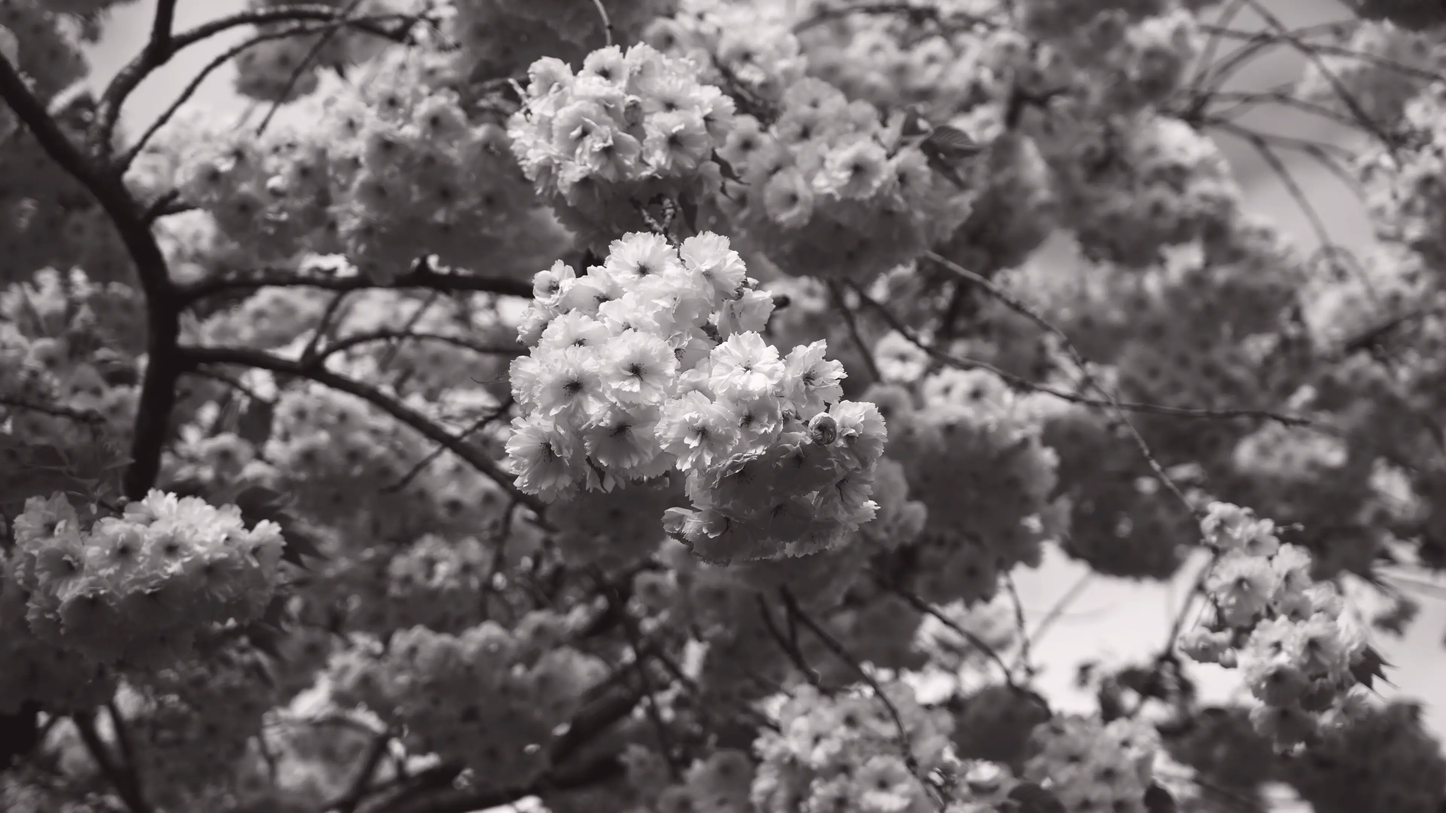
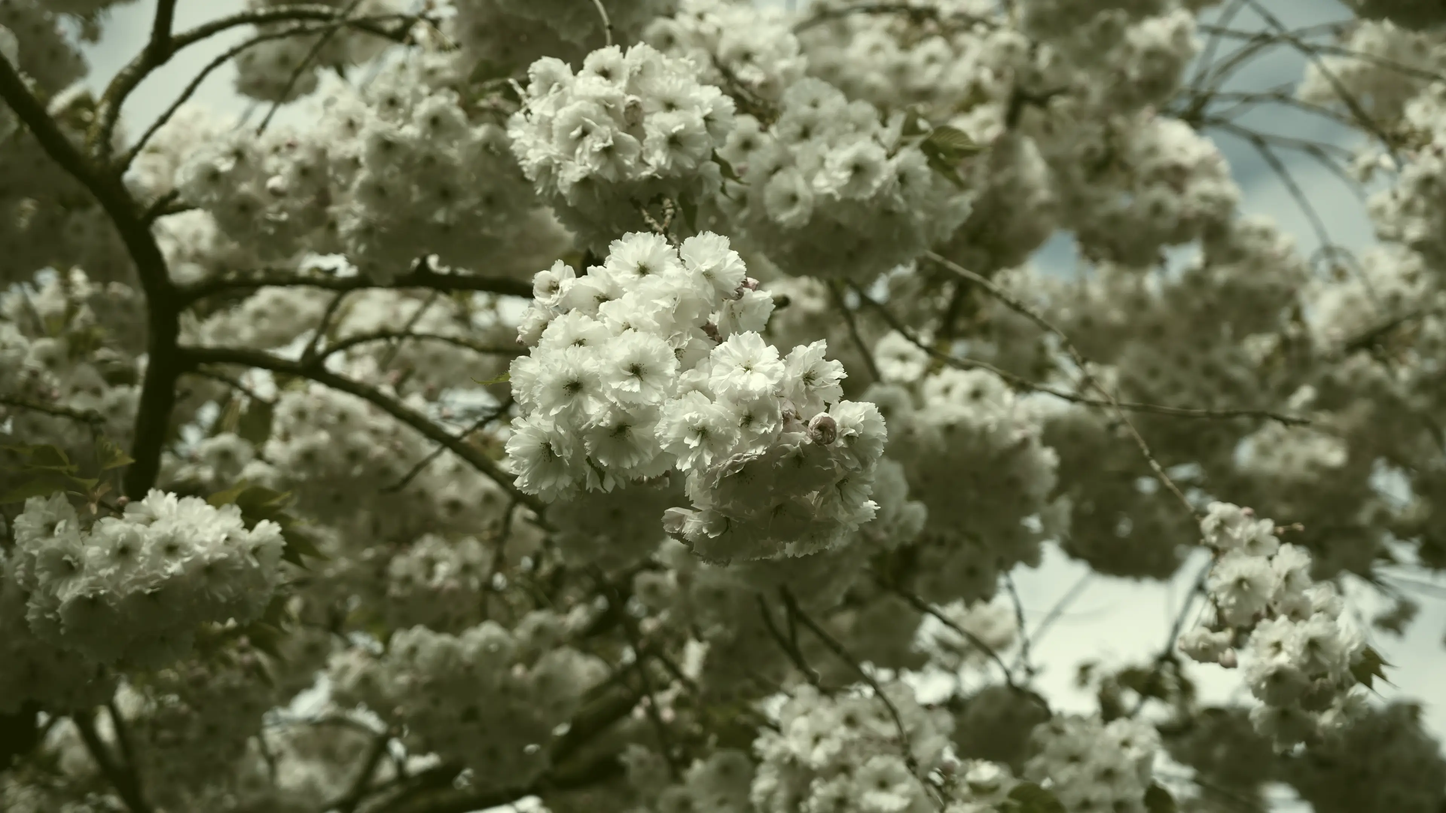
updated spring theme

Changed region(s): [[0.0, 0.0, 1.0, 1.0], [0.8125, 0.7134, 0.9688, 0.8995], [0.9375, 0.6204, 1.0, 0.6514]]

diff --git a/_sass/minima/skins/custom.scss b/_sass/minima/skins/custom.scss
@@ -42,9 +42,9 @@ $de-table-border-color:    $de-border-color-01 !default;
 
 // spring theme
 $sp-title:                 "  -spring edition- ";
-$sp-brand-color:           #ff8ca1 !default;
-$sp-code-background-color: #ffe3e8 !default;
-$sp-link-base-color:       #F96D87 !default;
+$sp-brand-color:           #e7ca09 !default; //#ff8ca1 !default;
+$sp-code-background-color: #f6ffc1 !default; //#ffe3e8 !default;
+$sp-link-base-color:       #9bb600 !default; //#F96D87 !default;
 $sp-background-image: url("/images/background/background-sp.webp");
 $sp-profile-image: url("/images/profile/profile-sp.webp");
 
@@ -56,12 +56,12 @@ $sp-site-title-color: darken(#828282, 25%) !default;
 $sp-text-color: #111111 !default;
 $sp-background-color: #fdfdfd !default;
 
-$sp-link-visited-color: darken($sp-link-base-color, 15%) !default;
+$sp-link-visited-color: darken($sp-link-base-color, 10%) !default;
 $sp-link-hover-color: $sp-text-color !default;
 
 $sp-border-color-01: $sp-brand-color-light !default;
 $sp-border-color-02: lighten($sp-brand-color, 35%) !default;
-$sp-border-color-03: #625b5d !default; //#505050 added the pink filter for the background image
+$sp-border-color-03: #455500 !default; //#505050 added the green
 
 $sp-table-text-color:      lighten($sp-text-color, 18%) !default;
 $sp-table-zebra-color:     lighten($sp-brand-color, 46%) !default;

diff --git a/_includes/header.html b/_includes/header.html
@@ -4,7 +4,7 @@
     {%- assign default_paths = site.pages | map: "path" -%}
     {%- assign page_paths = site.header_pages | default: default_paths -%}
     {%- assign titles_size = site.pages | map: 'title' | join: '' | size -%}
-    <a class="site-title" rel="author" href="{{ "/" | relative_url }}">{{ site.title | escape }} <span class="season"></span></a>
+    <a class="site-title" rel="author" href="{{ "/" | relative_url }}">{{ site.title | escape }}</a>
 
     {%- if titles_size > 0 -%}
       <nav class="site-nav">

diff --git a/_includes/footer.html b/_includes/footer.html
@@ -10,7 +10,7 @@
       {%- if site.author %}
         <ul class="contact-list">
           {% if site.author.name -%}
-            <li class="p-name">{{ site.author.name | escape }}</li>
+            <li class="p-name">{{ site.author.name | escape }}  <span class="season"></span></li>
           {% endif -%}
           {% if site.author.email -%}
             <li><a class="u-email" href="mailto:{{ site.author.email }}">{{ site.author.email }}</a></li>

diff --git a/_sass/minima/custom-styles.scss b/_sass/minima/custom-styles.scss
@@ -29,6 +29,6 @@
 
 .season::before {
     content: $title;
-    font-size: 70%;
+    font-size: 80%;
     // color: $site-title-color;
 }
